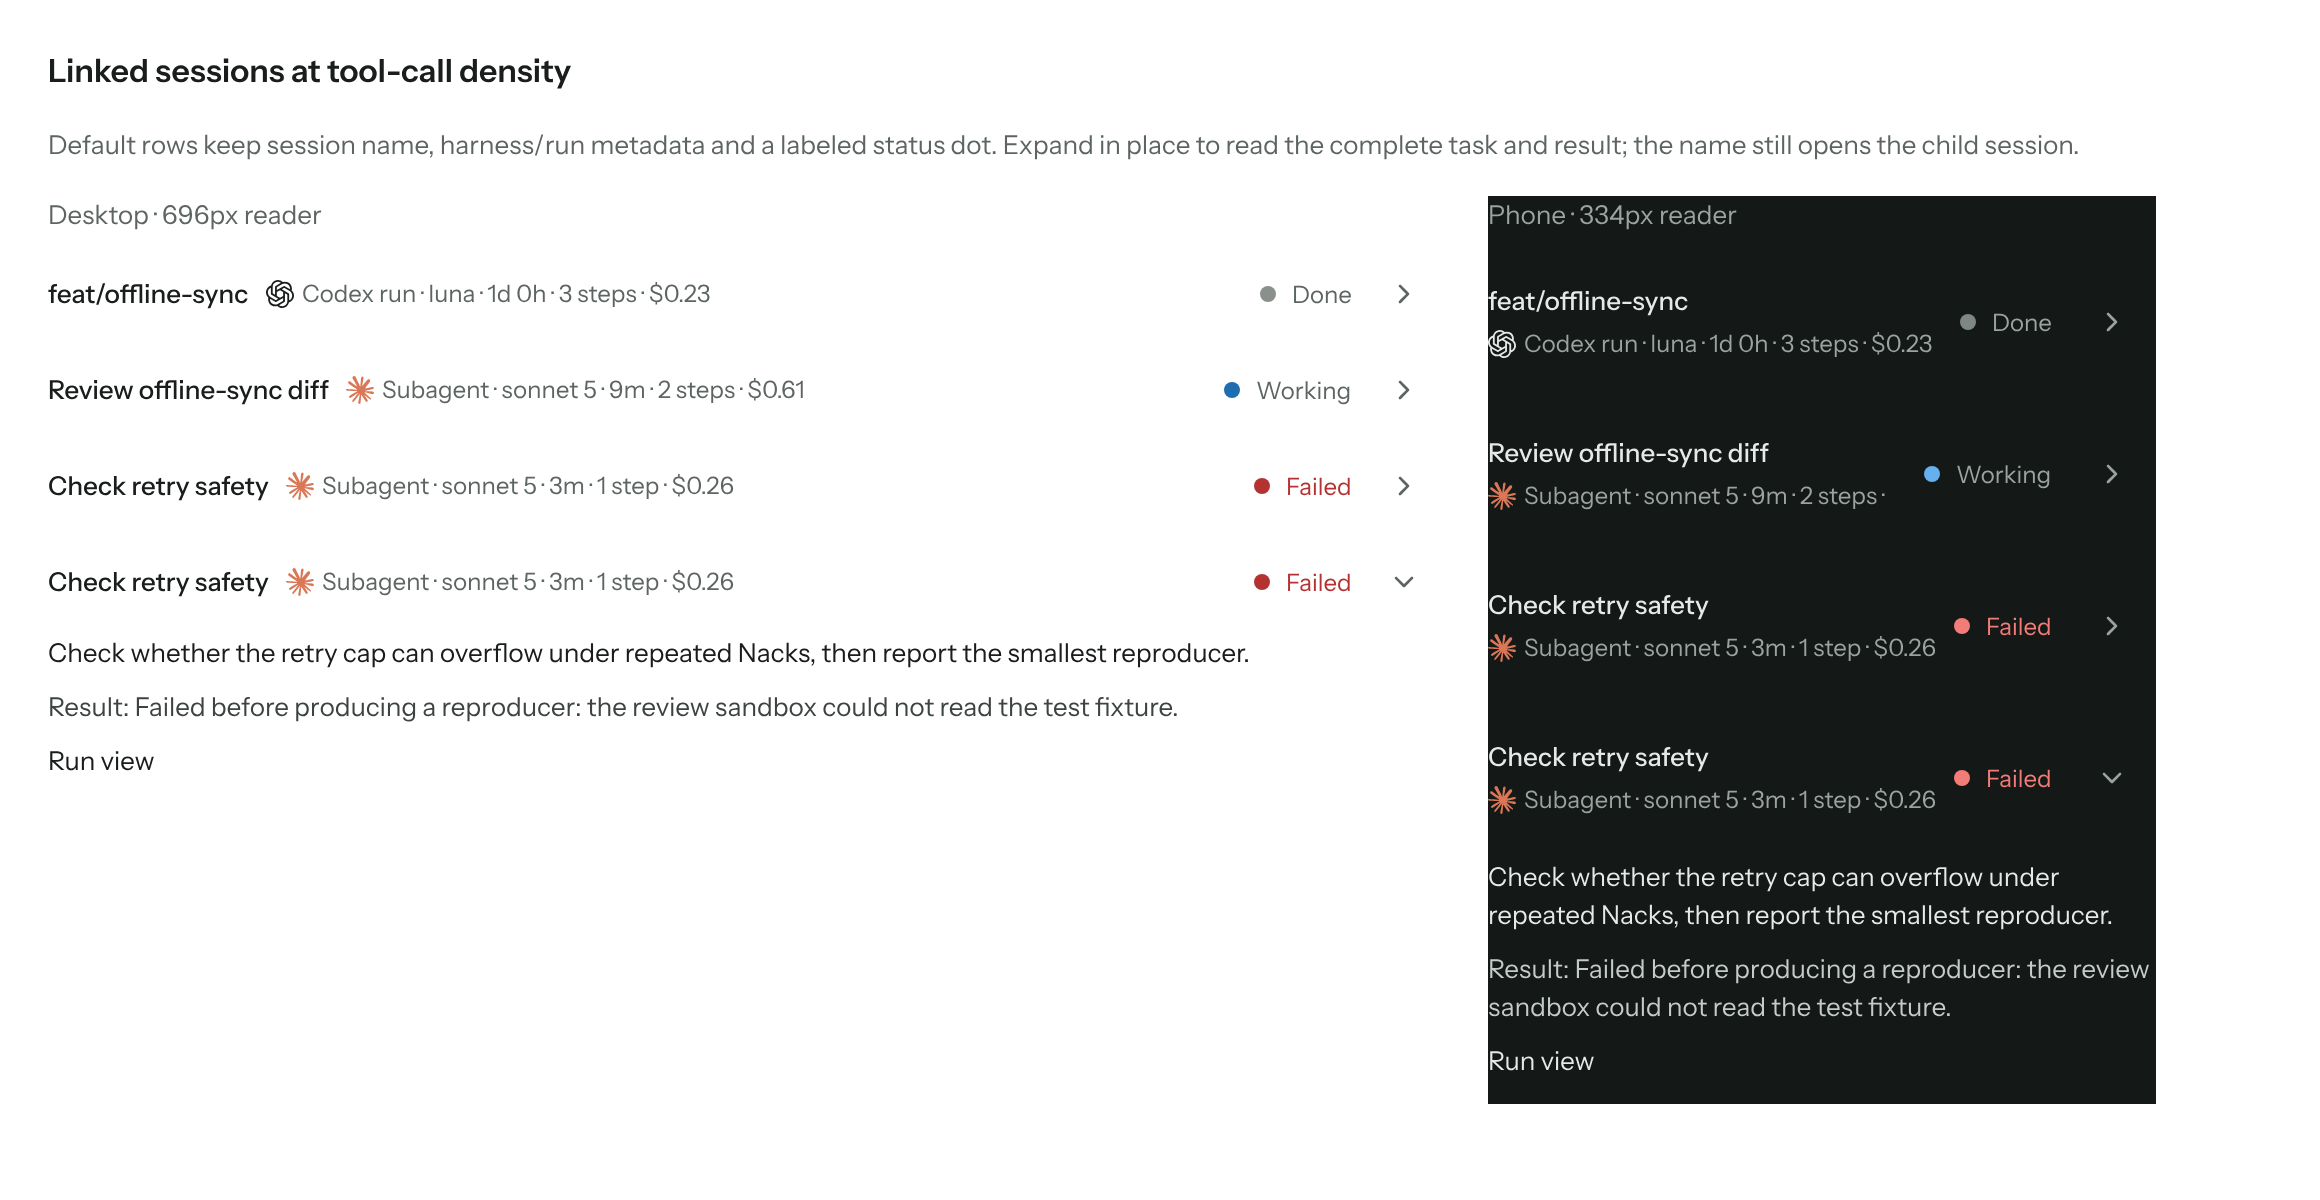
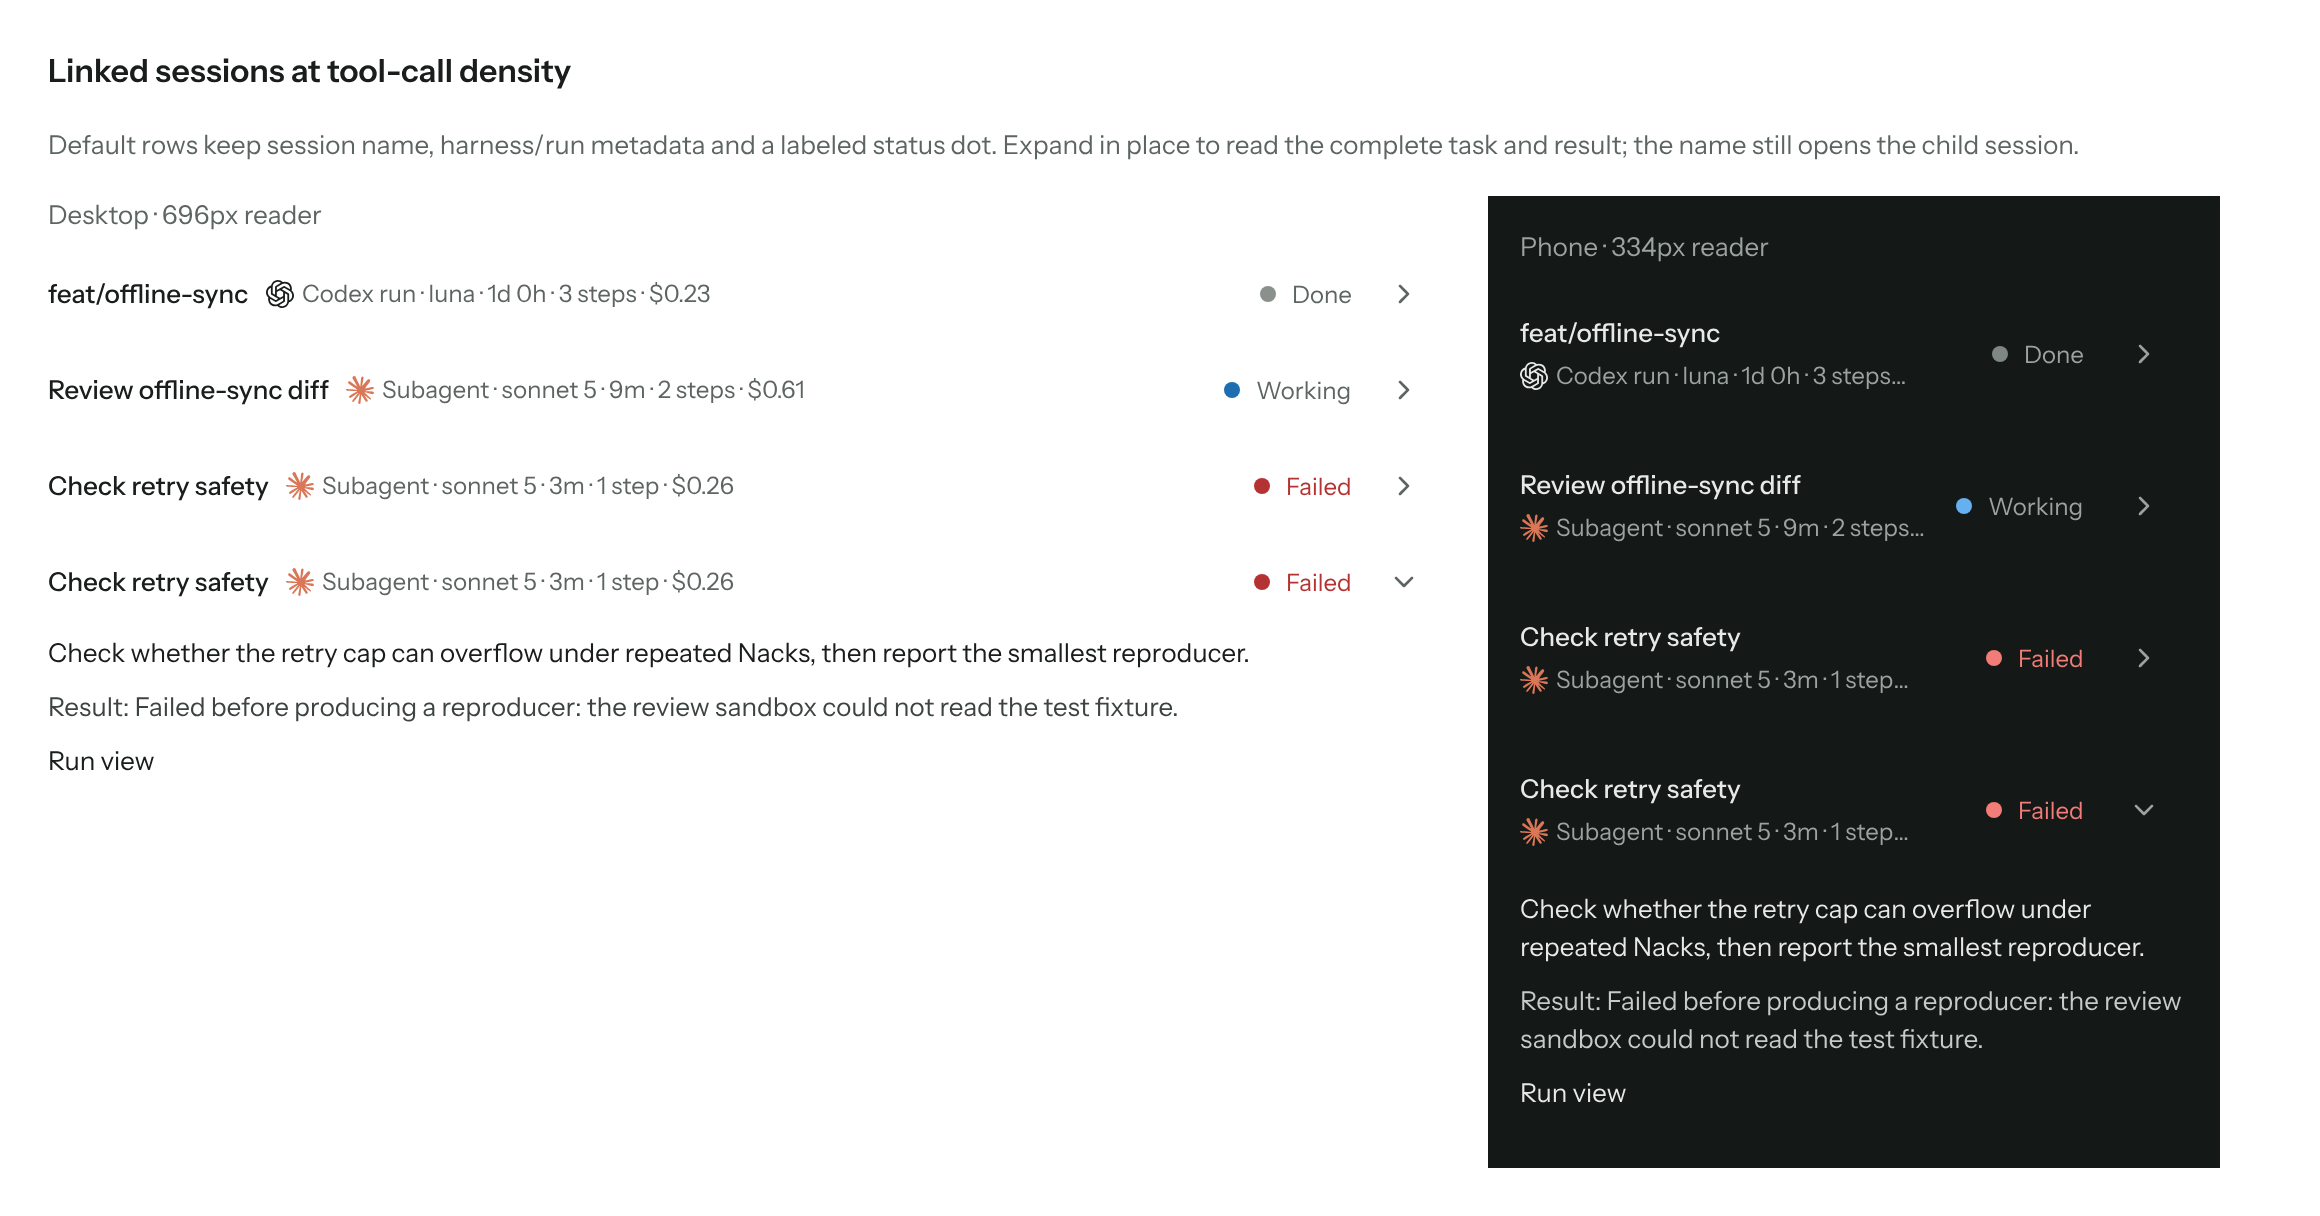
Clarify constrained canvas text and support measured viewport minimum height

diff --git a/ui/src/lib/geometry.ts b/ui/src/lib/geometry.ts
@@ -1,5 +1,6 @@
 /** Measured host geometry. Fixed property names and finite numbers are the entire input language. */
 export type GeometrySlot =
+  | 'minHeight'
   | 'paddingBottom'
   | 'scrollPaddingTop'
   | 'barHeight'
@@ -8,6 +9,7 @@ export type GeometrySlot =
   | 'accountBottom'
   | 'intrinsicHeight';
 const properties: Record<GeometrySlot, string> = {
+  minHeight: 'min-height',
   paddingBottom: 'padding-bottom',
   scrollPaddingTop: 'scroll-padding-top',
   barHeight: '--barh',

diff --git a/crates/semon-sessions/src/viewer.generated.js b/crates/semon-sessions/src/viewer.generated.js
@@ -6669,6 +6669,7 @@ globalThis.__semonUIShared = __semonUIShared;
 
   // src/lib/geometry.ts
   var properties2 = {
+    minHeight: "min-height",
     paddingBottom: "padding-bottom",
     scrollPaddingTop: "scroll-padding-top",
     barHeight: "--barh",

diff --git a/docs/design/session-inspection/annotation-refinement/README.md b/docs/design/session-inspection/annotation-refinement/README.md
@@ -57,3 +57,11 @@ coordinate that now targets the compact row's session-name button. The test now
 clicks metadata to validate noninteractive content separately; name navigation
 and route preservation assertions are retained. Final-head remote checks remain
 separate from selected local validation.
+
+The phone canvas example was subsequently corrected after the user identified
+hard-cropped metadata. Its dark pane now has 16px edge padding, deliberate
+metadata ellipses and full-width wrapping for disclosed task/result text. The
+board grows to its content rather than clipping its lower edge. Native compact
+rows/components remain editable; Source product row CSS is unchanged. The shared
+finite CSSOM geometry API additionally exposes `minHeight` for consumer-owned
+visible-viewport layout, with its existing cleanup and numeric validation.

diff --git a/ui/README.md b/ui/README.md
@@ -98,7 +98,9 @@ The shared prefix initializes once when shell and viewer assets coexist. Consume
 bundles already include it: **do not prepend `shell::COMPONENT_JS`** to output from
 `ui/build.mjs`. The Rust constant remains available for custom hosts. Application
 HTML sinks and inline styles remain banned; measured geometry is finite numeric
-CSSOM data, with stylesheet cleanup on disposal. External log links require HTTP(S),
+CSSOM data, with stylesheet cleanup on disposal. `setGeometry` also accepts
+`minHeight` for a host-owned visible-viewport layout; release that measurement
+when the host is destroyed. External log links require HTTP(S),
 `target="_blank"` and `rel="noopener noreferrer"`.
 
 External consumers: `node ui/build.mjs --entry /absolute/consumer.ts --output /absolute/consumer.generated.js`

diff --git a/.stitch/DESIGN.md b/.stitch/DESIGN.md
@@ -295,3 +295,10 @@ the surface border; coarse-pointer targets stay 44px (6px toolbar padding plus
 the 6px compact-control visual inset). Generic composers retain their existing
 96px minimum and 17px toolbar insets. This exception follows the supplied
 Codex/ChatGPT reference and does not change transcript density.
+
+The linked-session state board now uses 16px phone-example edge padding and an
+automatically sized outer frame. Narrow metadata has a deliberate ellipsis,
+rather than cutting a glyph at the canvas edge; expanded tasks/results wrap
+without a clamp. This corrects the native demonstration, not product typography
+or row density. Hosts may use the shared finite `minHeight` geometry slot for
+visible-viewport fitting; layout policy and listener lifetime remain host-owned.
